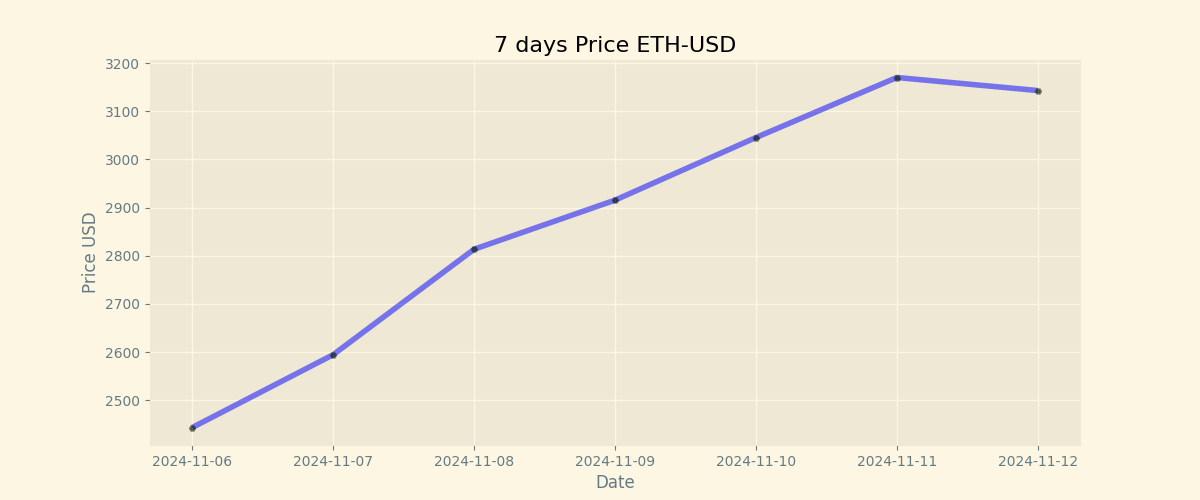
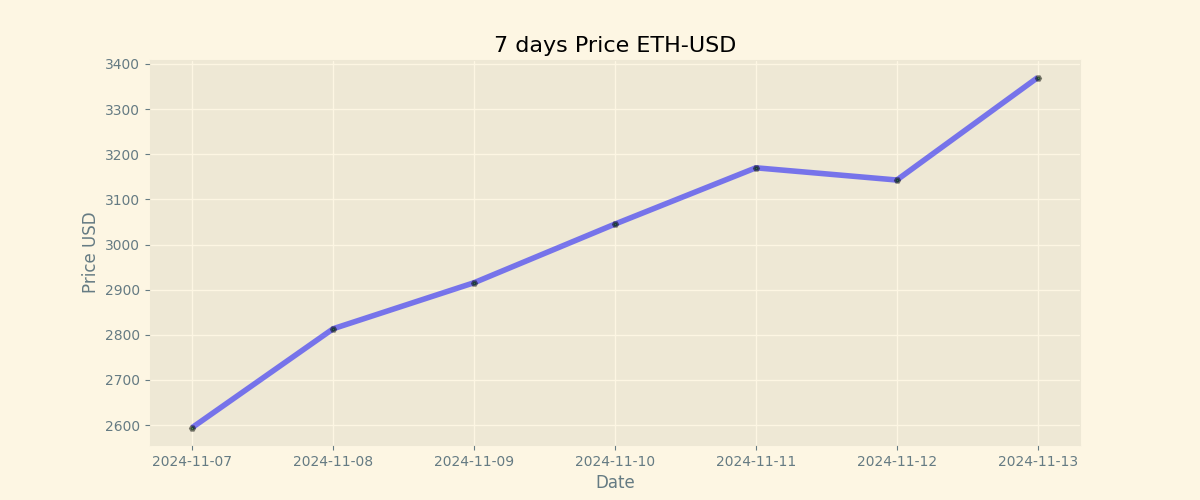
Duty Updates 2024-11-13

diff --git a/README.md b/README.md
@@ -9,8 +9,8 @@
 
 | Currency | Price           |
 | -------- | --------------- |
-| **BTC**  | **$ 81000.0** |
-| **ETH**  | **$ 3142.92** |
+| **BTC**  | **$ 88357.0** |
+| **ETH**  | **$ 3370.0** |
 
 ## BTC chart
 
